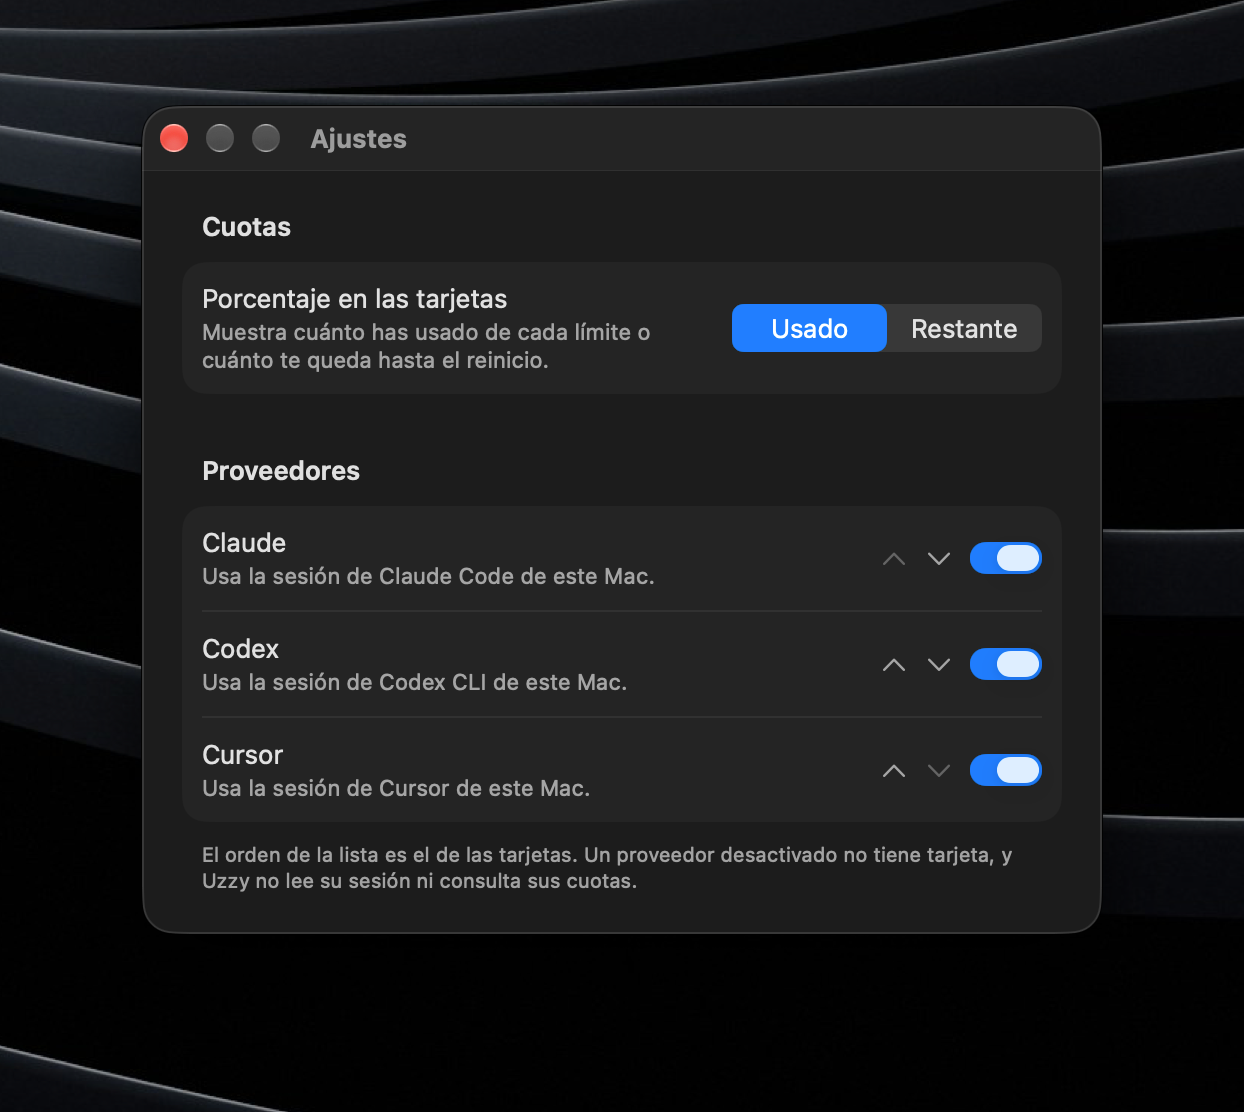
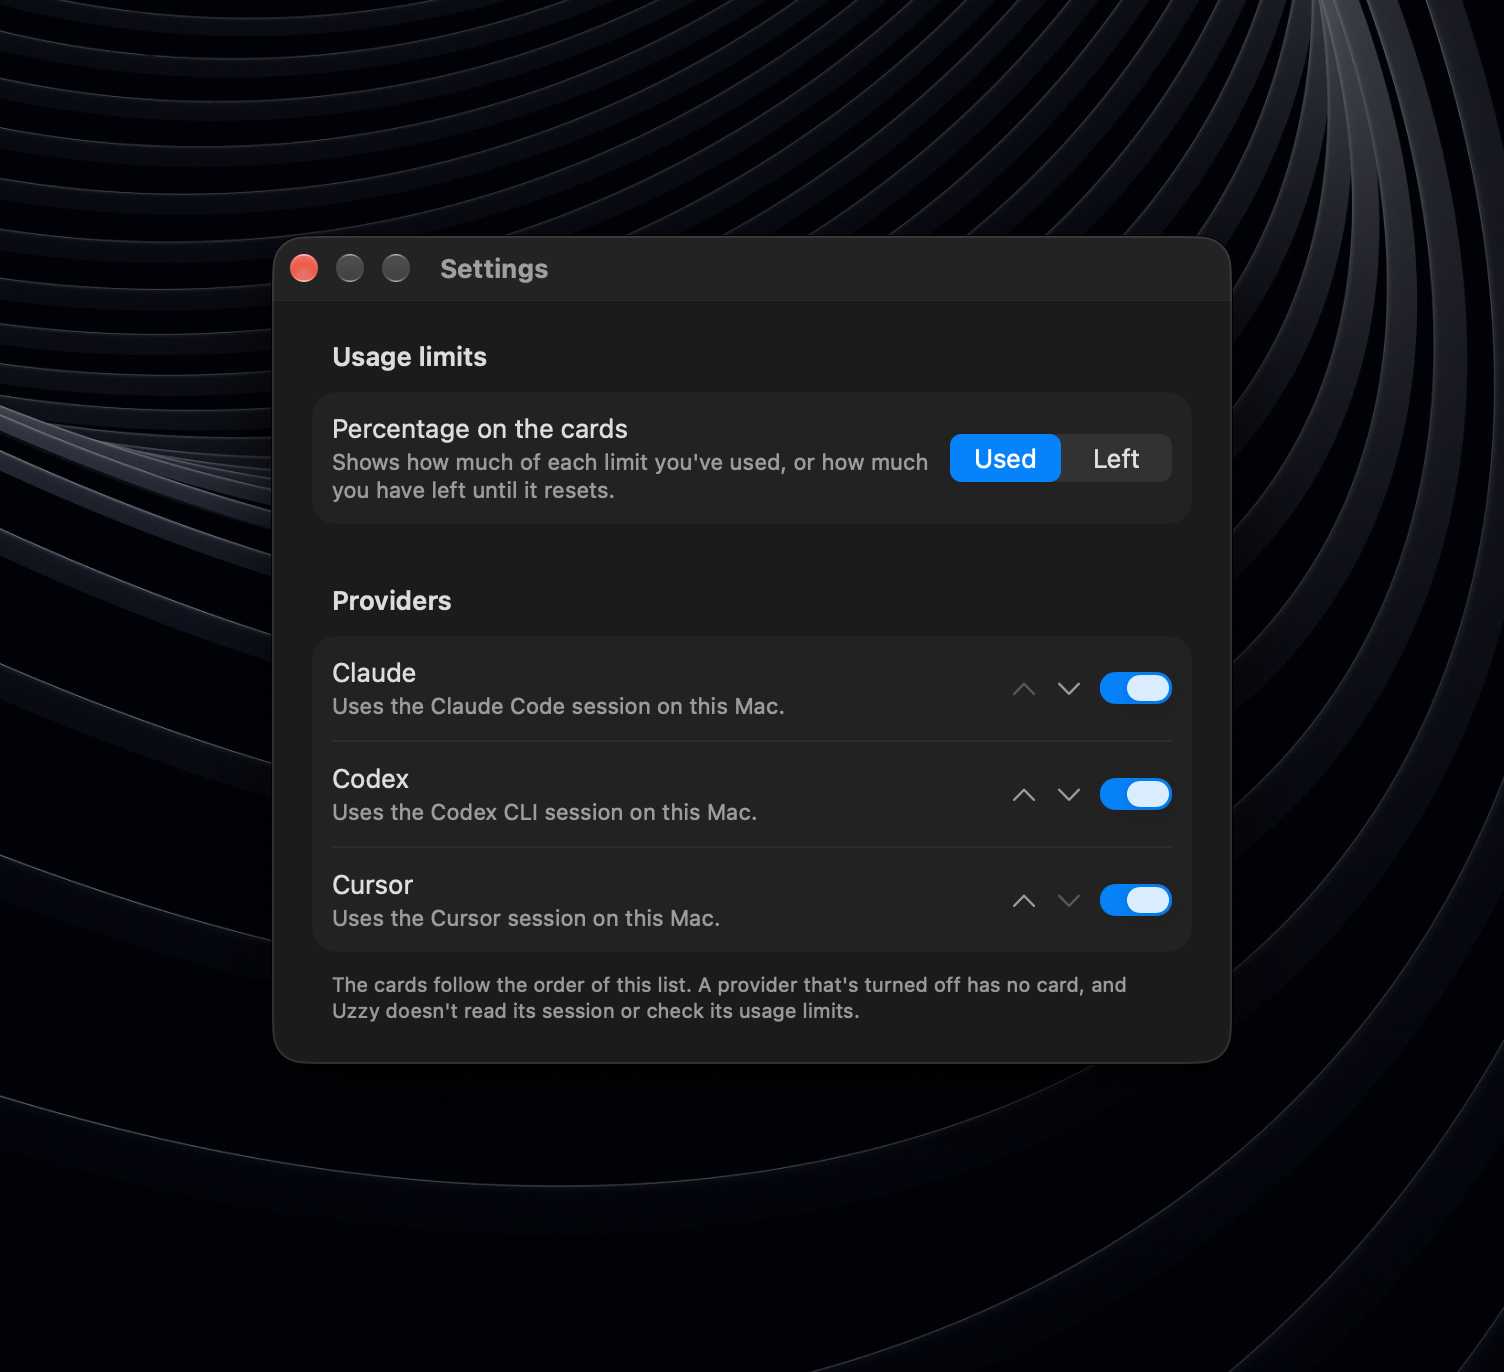
docs(readme): show the app and settings over the brand wallpaper
- Replace panel.png with app.png and re-export settings.png from the
  Figma frames "app" and "settings".
- Keep the GitHub social preview in docs/images/github-social.png so
  it can be re-uploaded without digging through Figma.
- Name the settings switch Used / Left, as the app labels it.

diff --git a/README.md b/README.md
@@ -13,7 +13,7 @@
 </p>
 
 <p align="center">
-  <img src="docs/images/panel.png" width="420" alt="The Uzzy panel open from the menu bar, with one card each for Claude, Codex and Cursor and each account's plan next to its title. Every quota has its own bar, its used percentage and its reset time; the Claude card also shows the usage credits spent this month, and the Codex card a badge with its banked resets.">
+  <img src="docs/images/app.png" width="420" alt="The Uzzy panel open from the menu bar, with one card each for Claude, Codex and Cursor and each account's plan next to its title. Every quota has its own bar, its used percentage and its reset time; the Claude card also shows the usage credits spent this month, and the Codex card a badge with its banked resets.">
 </p>
 
 > [!NOTE]
@@ -32,7 +32,7 @@ If you pay for more than one AI coding subscription, finding out how close you a
 - **Native settings.** Choose used or remaining quota, and turn each provider on or off or change the order of the cards.
 
 <p align="center">
-  <img src="docs/images/settings.png" width="520" alt="The Uzzy Settings window: a Used / Remaining switch for the percentage on the cards, and the Claude, Codex and Cursor providers with buttons to reorder them and a switch to turn each one on or off.">
+  <img src="docs/images/settings.png" width="520" alt="The Uzzy Settings window: a Used / Left switch for the percentage on the cards, and the Claude, Codex and Cursor providers with buttons to reorder them and a switch to turn each one on or off.">
 </p>
 
 Open Settings with ⌘, from the panel; ⌘W closes it and ⌘Q quits. Your choices are remembered across launches, and a disabled provider has no card: Uzzy does not read its session or query its quotas.
